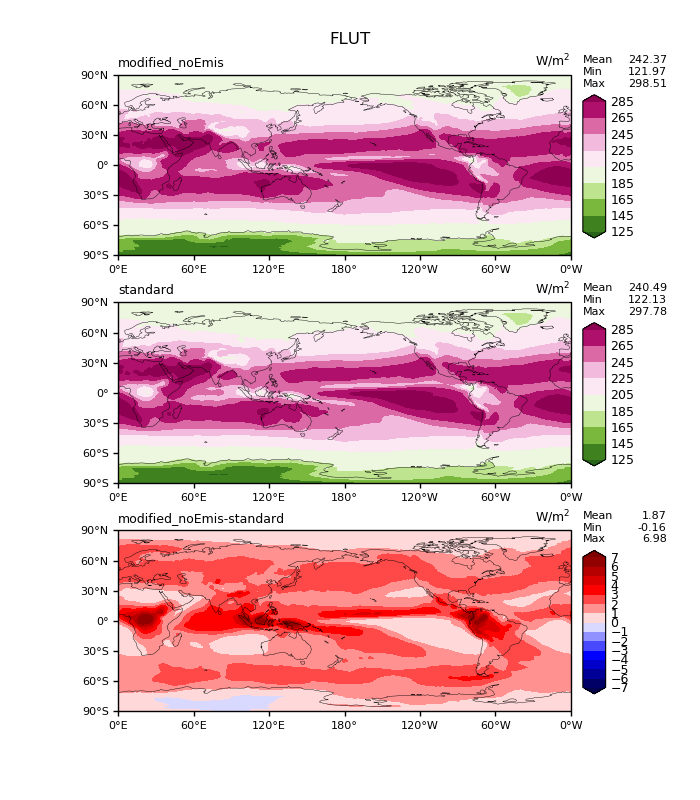
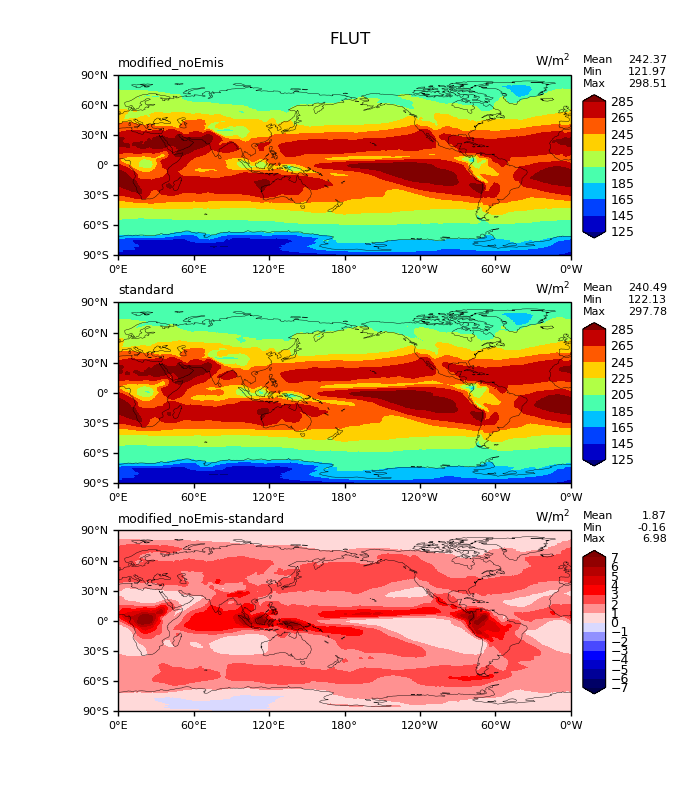
modify colormap

diff --git a/d1_lon_lat_contour_model_vs_model_sgl.py b/d1_lon_lat_contour_model_vs_model_sgl.py
@@ -48,8 +48,8 @@ lon=file_ctl.variables["lon"]
 lev=file_ctl.variables["lev"]
 
 #varnm="FSSDCLRS14"
-varnm="FLNS"
-varnm_off="FLNS_OFF"  #offline computation
+varnm="FLUT"
+varnm_off="FLUT_OFF"  #offline computation
 units=r"W/m$^2$"
 figure_name="lat_lon_"+varnm+"_"+exp_name+"-"+ctl_name+".png"
 #figure_name="lat_lon_"+varnm+"500mb_"+exp_name+"-"+ctl_name+".png"
@@ -105,15 +105,15 @@ for i in range(0,3):
     norm = None
     if i != 2:
         #cnlevels=np.array([0,10,20,30,40,50,60]) #parameters["contour_levs"]
-        #cnlevels=np.arange(125,300,20)
+        cnlevels=np.arange(125,300,20)
         #cnlevels=np.arange(70,420,30)
-        cnlevels=np.arange(20,150,10)
+        #cnlevels=np.arange(20,150,10)
         #cnlevels=np.arange(0,80,8)
     else:
         #cnlevels=np.arange(-9,10,1.5)
-        #cnlevels=np.arange(-7,8,1)
+        cnlevels=np.arange(-7,8,1)
         #cnlevels=np.arange(-0.8,1.0,0.2)
-        cnlevels=np.arange(0.0,3.0,0.2)
+        #cnlevels=np.arange(0.0,3.0,0.2)
         #cnlevels=np.array([-4,-3.5,-3,-2.5,-2,-1.5,-1.,-0.5,0.5,1.,1.5,2.,2.5,3.,3.5,4.]) #parameters["diff_levs"]
 
     #if len(cnlevels) >0:
@@ -138,8 +138,8 @@ for i in range(0,3):
         stats=stats_ctl
     else:
         dtplot=dtdif[:,:,:]
-        #cmap="seismic" #parameters["colormap_diff"]
-        cmap="YlOrRd" #parameters["colormap_diff"]
+        cmap="seismic" #parameters["colormap_diff"]
+        #cmap="YlOrRd" #parameters["colormap_diff"]
         stats=stats_dif
     p1 = ax.contourf(lon[:],lat[:],dtplot[0,:,:],\
                 transform=projection,\
